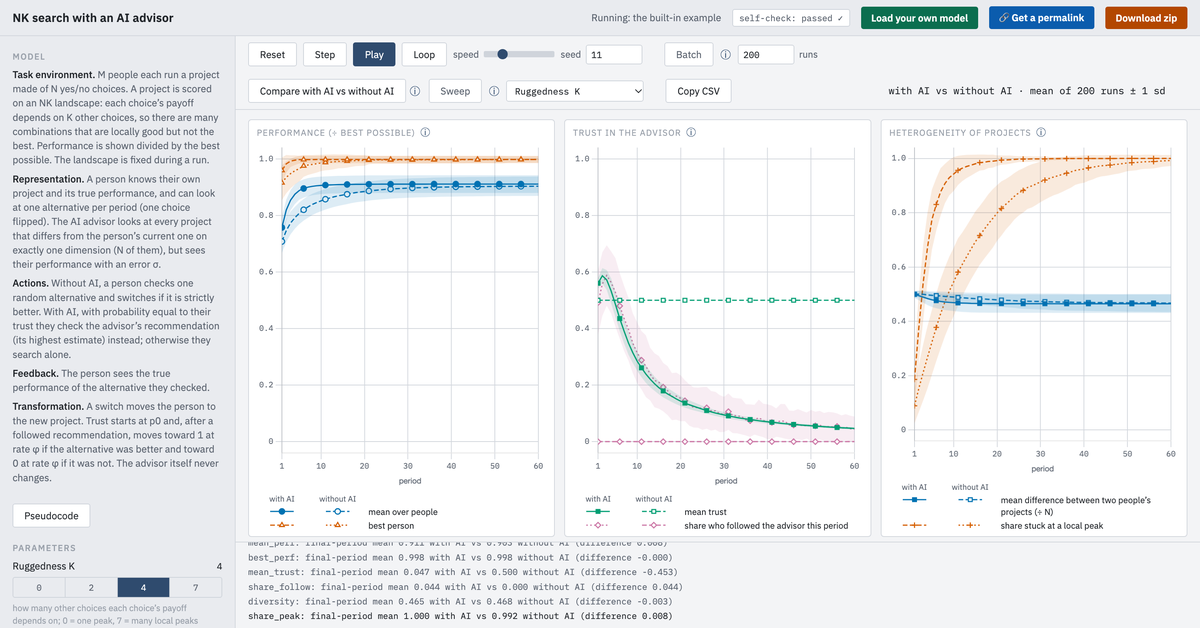
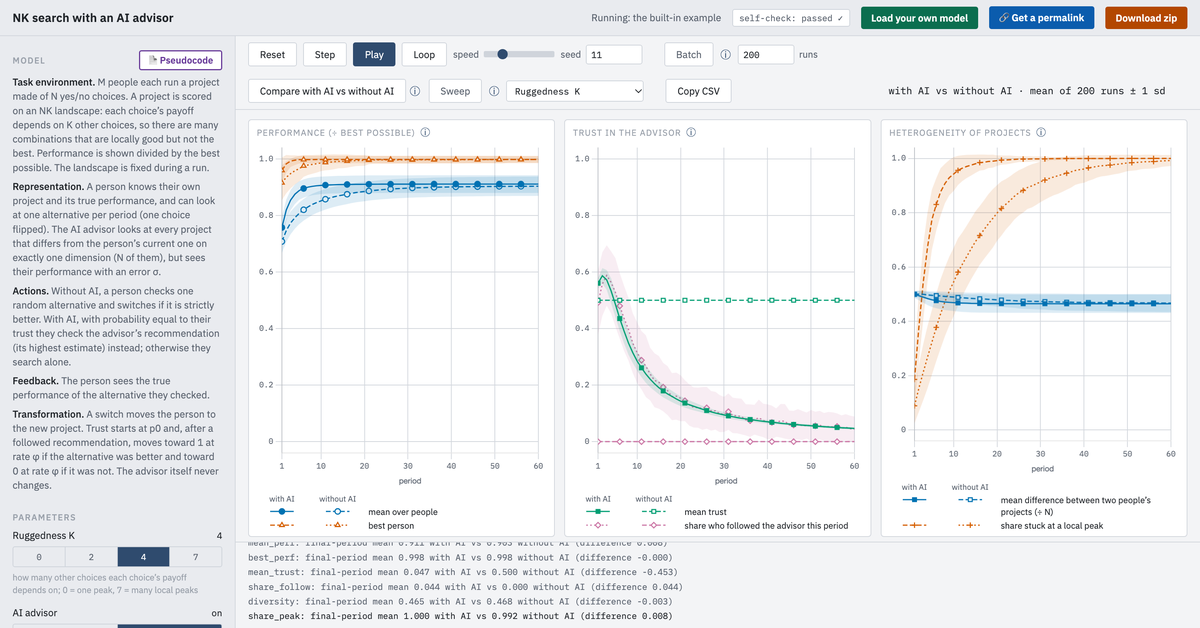
Pseudocode button moves beside the Model heading, purple outline and bold so it stands out; GIF and link preview re-captured

Changed region(s): [[0.0, 0.0605, 0.185, 0.7866], [0.0, 0.8169, 0.185, 1.0]]

diff --git a/index.html b/index.html
@@ -10,7 +10,7 @@
 :root{
   --bg:#f3f4f6; --panel:#e9ebef; --card:#ffffff; --fg:#1f2328; --muted:#5c6470; --faint:#9aa1ab; --rule:#d3d7dd;
   --accent:#2f4b6e; --accent-fg:#ffffff; --track:#cfd4db; --warn:#8a5a00; --warn-bg:#fff4d6;
-  --go:#0b6e4f; --go-fg:#ffffff; --dl:#b34700; --dl-fg:#ffffff; --pl:#0b5cad; --pl-fg:#ffffff; --priv:#b3261e;   /* the "Load your own model" (green) and "Download zip" (orange) buttons: UI colours, not data colours */
+  --go:#0b6e4f; --go-fg:#ffffff; --dl:#b34700; --dl-fg:#ffffff; --pl:#0b5cad; --pl-fg:#ffffff; --priv:#b3261e; --pc:#6a3d9a;   /* the "Load your own model" (green) and "Download zip" (orange) buttons: UI colours, not data colours */
   /* Okabe–Ito data palette: colour-blind safe. Colour is always the second encoding after line style and marker. */
   --oi-blue:#0072B2; --oi-orange:#D55E00; --oi-green:#009E73; --oi-yellow:#F0E442; --oi-sky:#56B4E9; --oi-purple:#CC79A7; --oi-black:#1f2328;
   --sans:"IBM Plex Sans",-apple-system,"Segoe UI",Helvetica,Arial,sans-serif;
@@ -18,10 +18,10 @@
 }
 @media (prefers-color-scheme: dark){ :root:not([data-theme="light"]){
   --bg:#17191d; --panel:#1f2228; --card:#24282f; --fg:#e6e8eb; --muted:#aab1bb; --faint:#6f7781; --rule:#363b44;
-  --accent:#8fb3dc; --accent-fg:#101318; --track:#3a404a; --oi-black:#e6e8eb; --warn:#f0c674; --warn-bg:#3a3020; --go:#5ec29a; --go-fg:#0f1a14; --dl:#f0a35e; --dl-fg:#1f1408; --pl:#7fb6f0; --pl-fg:#0e1a28; --priv:#ff8a80; color-scheme:dark; }}
+  --accent:#8fb3dc; --accent-fg:#101318; --track:#3a404a; --oi-black:#e6e8eb; --warn:#f0c674; --warn-bg:#3a3020; --go:#5ec29a; --go-fg:#0f1a14; --dl:#f0a35e; --dl-fg:#1f1408; --pl:#7fb6f0; --pl-fg:#0e1a28; --priv:#ff8a80; --pc:#c9a8ea; color-scheme:dark; }}
 :root[data-theme="dark"]{
   --bg:#17191d; --panel:#1f2228; --card:#24282f; --fg:#e6e8eb; --muted:#aab1bb; --faint:#6f7781; --rule:#363b44;
-  --accent:#8fb3dc; --accent-fg:#101318; --track:#3a404a; --oi-black:#e6e8eb; --warn:#f0c674; --warn-bg:#3a3020; --go:#5ec29a; --go-fg:#0f1a14; --dl:#f0a35e; --dl-fg:#1f1408; --pl:#7fb6f0; --pl-fg:#0e1a28; --priv:#ff8a80; color-scheme:dark; }
+  --accent:#8fb3dc; --accent-fg:#101318; --track:#3a404a; --oi-black:#e6e8eb; --warn:#f0c674; --warn-bg:#3a3020; --go:#5ec29a; --go-fg:#0f1a14; --dl:#f0a35e; --dl-fg:#1f1408; --pl:#7fb6f0; --pl-fg:#0e1a28; --priv:#ff8a80; --pc:#c9a8ea; color-scheme:dark; }
 
 *,*::before,*::after{box-sizing:border-box;margin:0;padding:0}
 html,body{height:100%}
@@ -107,7 +107,10 @@ label.ctl input[type=file]{display:none}
 /* Pseudocode: opens from the left panel and sits on the left, so the charts stay in view */
 .box.left{left:16px;transform:none;width:min(760px,calc(100vw - 32px))}
 .box pre.pc{white-space:pre;overflow-x:auto;font-size:11.5px;background:var(--panel);border:1px solid var(--rule);border-radius:4px;padding:10px 12px}
-#btn-pc{align-self:flex-start}
+/* Pseudocode button sits beside the Model heading; purple outline + bold text so it stands out from the plain buttons */
+.hrow{display:flex;align-items:center;justify-content:space-between;gap:8px;margin-bottom:6px}
+.hrow h2{margin-bottom:0}
+#btn-pc{padding:3px 10px;font-size:12px;font-weight:600;color:var(--pc);border:1.5px solid var(--pc);background:var(--card)}
 
 /* Controls bar */
 #controls{display:flex;align-items:center;gap:8px 28px;padding:8px 16px;border-bottom:1px solid var(--rule);flex-wrap:wrap;flex-shrink:0;background:var(--bg)}
@@ -185,8 +188,7 @@ label.ctl input[type=file]{display:none}
 
 <div id="main">
   <div id="left">
-    <div class="block" id="about"><h2>Model</h2><div id="about-body"></div></div>
-    <button class="ctl" id="btn-pc" title="The model's code, step by step in plain words">Pseudocode</button>
+    <div class="block" id="about"><div class="hrow"><h2>Model</h2><button class="ctl" id="btn-pc" title="The model's code, step by step in plain words. Check it to make sure the model does what you intended.">📄 Pseudocode</button></div><div id="about-body"></div></div>
     <div class="block"><h2>Parameters</h2><div id="params"></div></div>
   </div>
 
